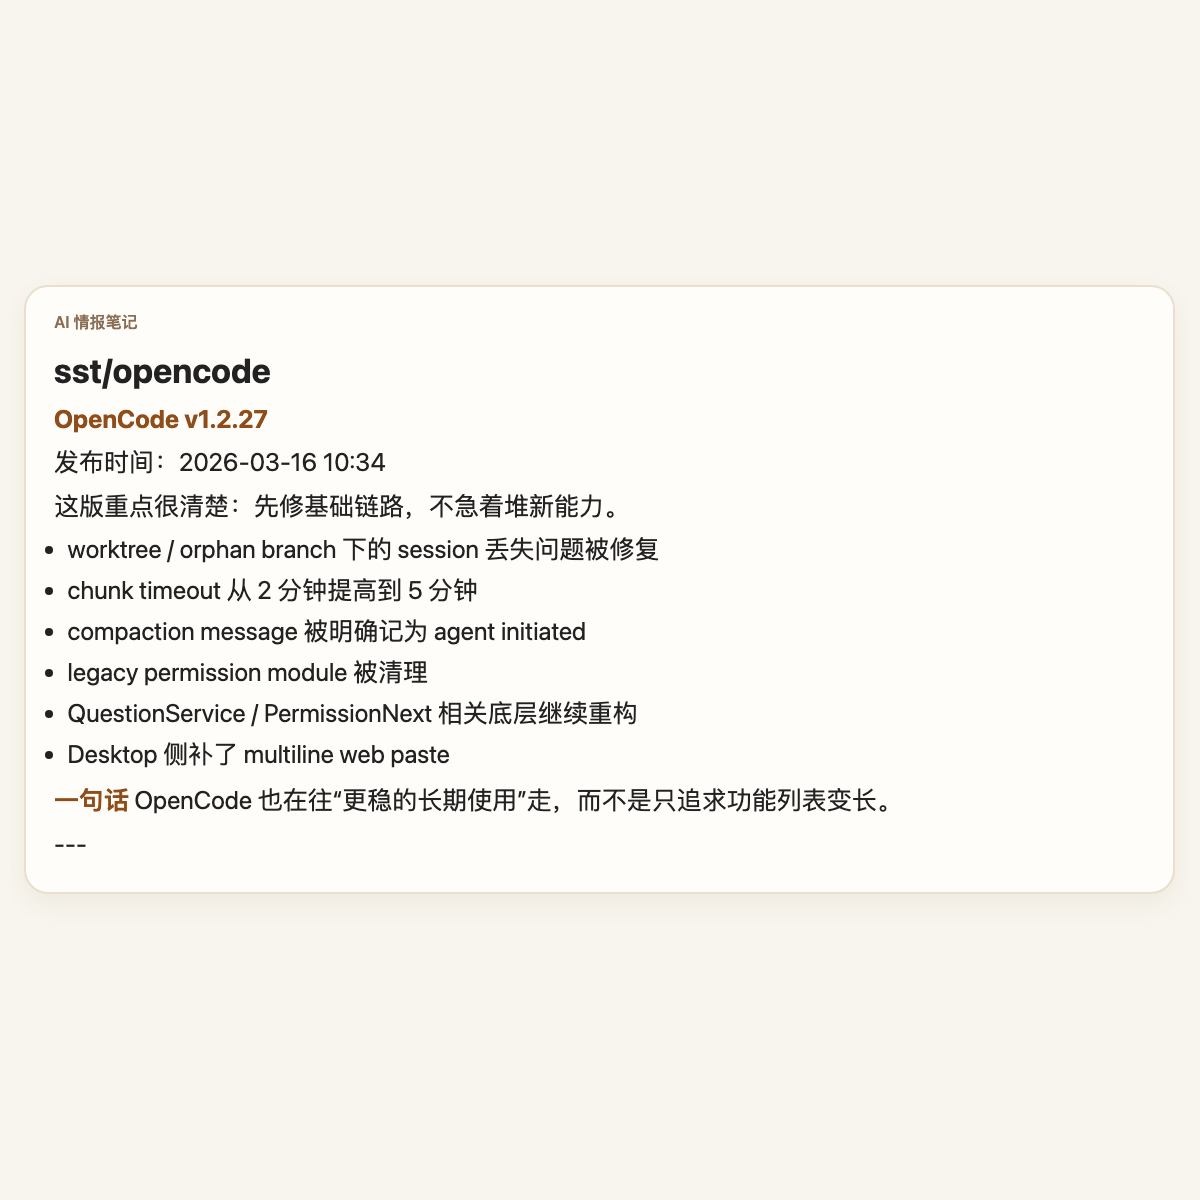
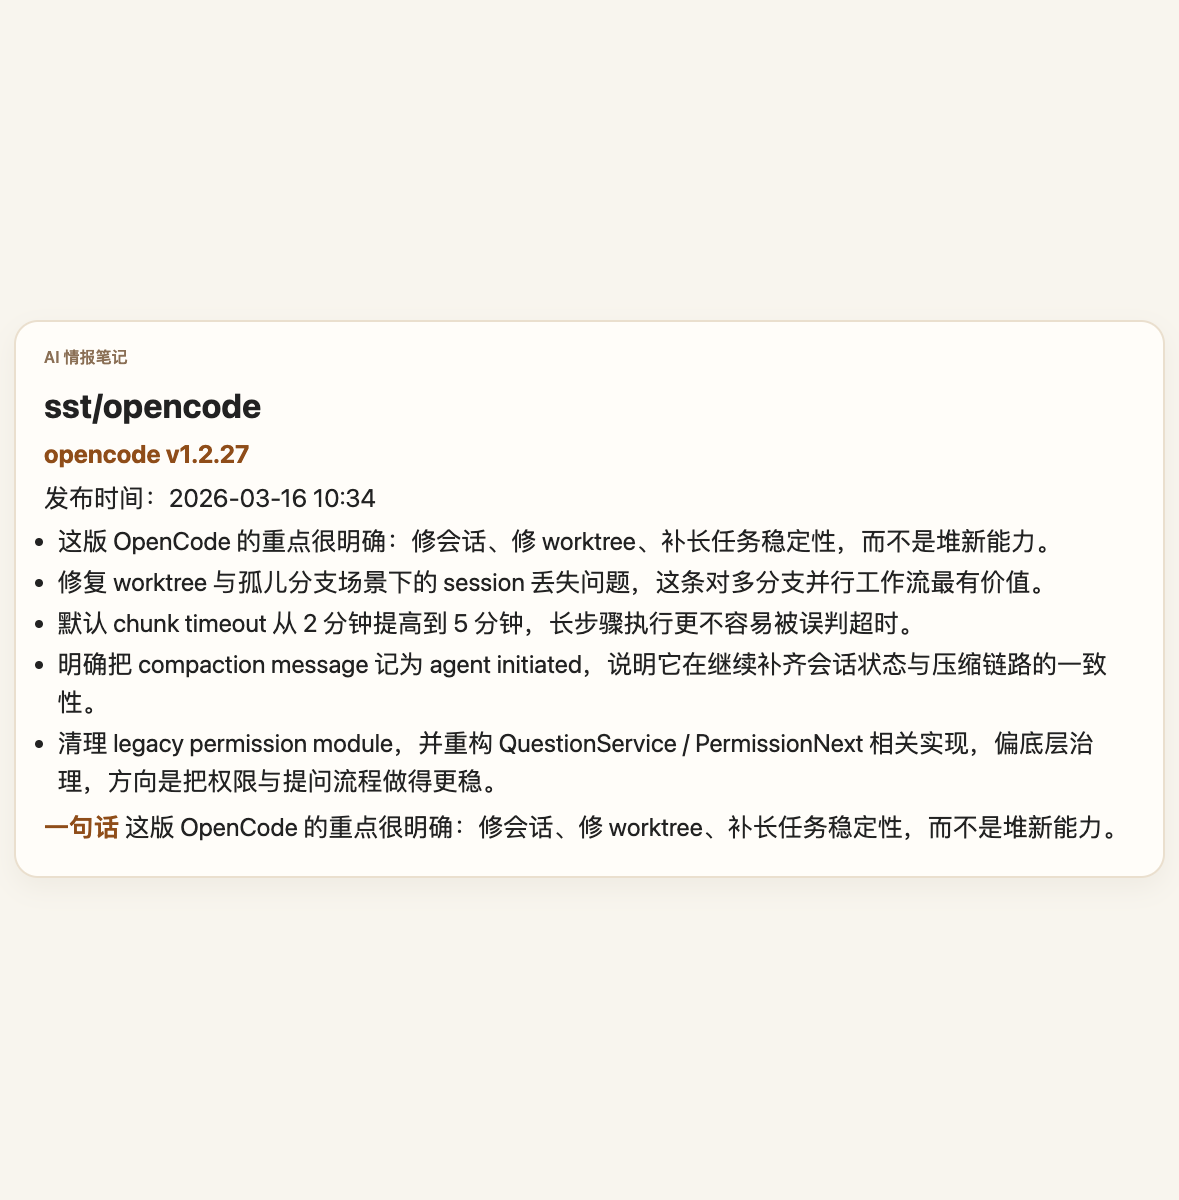
Add full GitHub AI Daily → Xiaohongshu pipeline script
Rewrites pipeline_xhs_github_daily.py with complete automation:
- Parses daily markdown, generates per-repo card markdowns
- Renders square PNGs via render_markdown_image.js --xhs
- Calls publish_xiaohongshu_github_daily.py for publishing
- Supports --cards-only, --render-only, --skip-publish, --dry-run
- No slide numbering in card titles (just owner/repo)
- Regenerated 2026-03-17 square-9 cards with pipeline

Changed region(s): [[0.0, 0.2467, 0.9466, 0.7092], [0.9771, 0.2775, 1.0, 0.7092], [0.7939, 0.6783, 0.9466, 0.7092]]

diff --git a/scripts/pipeline_xhs_github_daily.py b/scripts/pipeline_xhs_github_daily.py
@@ -200,8 +200,6 @@ def generate_card_markdown(repo: dict) -> str:
         lines.append(summary)
         lines.append('')
 
-    lines.append('---')
-    lines.append('')
     return '\n'.join(lines)
 
 

diff --git a/xiaohongshu/github-ai-daily/2026-03-17-square-9/04-codex.md b/xiaohongshu/github-ai-daily/2026-03-17-square-9/04-codex.md
@@ -1,18 +1,13 @@
-## 图 4｜openai/codex
-**Codex rust-v0.115.0**
+## openai/codex
+**codex rust-v0.115.0**
 
 发布时间：2026-03-17 03:37
 
-这版 Codex 值得看的不是单点功能，而是底座能力继续往前推进。
-
-- Smart Approvals 能把 review 请求路由给 guardian subagent
-- app-server v2 新增 filesystem RPC，并补了 Python SDK
-- realtime websocket 会话新增 transcription mode
-- `codex` tool 支持 v2 handoff
-- subagent 的 sandbox / network 规则继承更稳了
-- 还补了 `codex exec --profile`、MCP、TUI 退出卡住等问题
+- 这版 Codex 值得看的不是单点功能，而是把多 agent、审批、sandbox、filesystem RPC 和 app-server / realtime 这些基础能力继续往前推了一截。
+- Smart Approvals 现在可以把 review 请求路由给 guardian subagent，说明 Codex 正在把审批与审稿链路做成一等能力。
+- app-server v2 新增 filesystem RPC，并补了 Python SDK；这条线对外部集成、宿主应用接入和工作流编排都更关键。
+- Realtime websocket 会话新增专用 transcription mode，并通过 `codex` tool 支持 v2 handoff，实时交互链路继续增强。
+- 修复 spawned subagents 继承 sandbox / network 规则不稳定的问题，也修了 `codex exec --profile`、MCP 工具调用、TUI 退出卡住等真实使用痛点。
 
 **一句话**
-Codex 的方向不是“更像聊天”，而是“更像可编排、可嵌入的编码代理底座”。
-
----
+这版 Codex 值得看的不是单点功能，而是把多 agent、审批、sandbox、filesystem RPC 和 app-server / realtime 这些基础能力继续往前推了一截。

diff --git a/xiaohongshu/github-ai-daily/2026-03-17-square-9/01-claude-code.md b/xiaohongshu/github-ai-daily/2026-03-17-square-9/01-claude-code.md
@@ -1,17 +1,13 @@
-## 图 1｜anthropics/claude-code
-**Claude Code v2.1.77**
+## anthropics/claude-code
+**claude-code v2.1.77**
 
 发布时间：2026-03-17 08:28
 
-这版不是加花活，核心是在补重度使用时最痛的几条链路。
-
-- 长输出能力继续上调：Opus 4.6 默认 64k，上限到 128k
-- `allowRead` 沙箱权限更细，能在 `denyRead` 里局部开白名单
-- `/copy N` 能直接复制倒数第 N 条回复
-- `--resume` 截断问题修了，大 session 恢复也更快
-- tmux / IDE / 剪贴板 / hook 权限边界继续补齐
+- 这版不是小修小补，而是把 Claude Code 在长会话、tmux、权限与恢复链路上的几个高频痛点一起收拾了一遍。
+- Claude Opus 4.6 默认最大输出上限提到 64k，Opus 4.6 / Sonnet 4.6 的上限提到 128k，长任务和长代码生成空间更大了。
+- 新增 `allowRead` 沙箱文件系统设置：可以在 `denyRead` 的大区块里对局部目录重新开白名单，权限控制更细。
+- `/copy` 现在支持 `/copy N`，可以直接复制倒数第 N 条 assistant 回复，回收历史输出更方便。
+- 修复 `--resume` 在近期历史加载上的截断问题；大 session 的恢复速度也继续优化，官方给出的量级是最高约 45% 更快、峰值内存下降约 100-150MB。
 
 **一句话**
-Claude Code 已经进入“长期稳定工作代理”的打磨阶段。
-
----
+这版不是小修小补，而是把 Claude Code 在长会话、tmux、权限与恢复链路上的几个高频痛点一起收拾了一遍。

diff --git a/xiaohongshu/github-ai-daily/2026-03-17-square-9/03-opencode.md b/xiaohongshu/github-ai-daily/2026-03-17-square-9/03-opencode.md
@@ -1,18 +1,13 @@
-## 图 3｜sst/opencode
-**OpenCode v1.2.27**
+## sst/opencode
+**opencode v1.2.27**
 
 发布时间：2026-03-16 10:34
 
-这版重点很清楚：先修基础链路，不急着堆新能力。
-
-- worktree / orphan branch 下的 session 丢失问题被修复
-- chunk timeout 从 2 分钟提高到 5 分钟
-- compaction message 被明确记为 agent initiated
-- legacy permission module 被清理
-- QuestionService / PermissionNext 相关底层继续重构
-- Desktop 侧补了 multiline web paste
+- 这版 OpenCode 的重点很明确：修会话、修 worktree、补长任务稳定性，而不是堆新能力。
+- 修复 worktree 与孤儿分支场景下的 session 丢失问题，这条对多分支并行工作流最有价值。
+- 默认 chunk timeout 从 2 分钟提高到 5 分钟，长步骤执行更不容易被误判超时。
+- 明确把 compaction message 记为 agent initiated，说明它在继续补齐会话状态与压缩链路的一致性。
+- 清理 legacy permission module，并重构 QuestionService / PermissionNext 相关实现，偏底层治理，方向是把权限与提问流程做得更稳。
 
 **一句话**
-OpenCode 也在往“更稳的长期使用”走，而不是只追求功能列表变长。
-
----
+这版 OpenCode 的重点很明确：修会话、修 worktree、补长任务稳定性，而不是堆新能力。

diff --git a/xiaohongshu/github-ai-daily/2026-03-17-square-9/02-openclaw.md b/xiaohongshu/github-ai-daily/2026-03-17-square-9/02-openclaw.md
@@ -1,17 +1,13 @@
-## 图 2｜openclaw/openclaw
-**OpenClaw v2026.3.13-1**
+## openclaw/openclaw
+**openclaw v2026.3.13-1**
 
 发布时间：2026-03-15 02:04
 
-这版名义上是恢复型 release，实际上是发布链路 + 系统稳定性补丁。
-
-- 修复上一版损坏的 tag / release 路径
-- npm 版本仍是 `2026.3.13`，`-1` 只体现在 Git tag / GitHub Release
-- compaction 改成按完整会话 token 做 sanity check
-- Telegram 媒体传输被重新接回 SSRF 防护链路
-- 对外功能增量不大，但发布一致性和安全边界更稳了
+- 这次发布主要是在修复上一版损坏的 tag / release 路径，属于发布链路补丁。
+- npm 版本号仍然是 `2026.3.13`，`-1` 只体现在 Git tag 和 GitHub Release 上。
+- 修复 compaction 的后置校验：压缩后会按完整会话 token 数来做 sanity check。
+- 修复 Telegram 媒体传输相关的安全策略问题，和 SSRF 防护链路有关。
+- 这版对外功能增量不大，但对发布一致性和安全边界是必要补丁。
 
 **一句话**
-OpenClaw 真正值得盯的，还是系统底层稳定性和安全收口能力。
-
----
+这次发布主要是在修复上一版损坏的 tag / release 路径，属于发布链路补丁。

diff --git a/xiaohongshu/github-ai-daily/2026-03-17-square-9/08-arbor.md b/xiaohongshu/github-ai-daily/2026-03-17-square-9/08-arbor.md
@@ -1,18 +1,11 @@
-## 图 8｜penso/arbor
+## penso/arbor
 **arbor**
 
 Stars：361
 
-这是个原生桌面应用，重点围绕 git worktree、terminal 和 diff 来组织 agentic coding workflow。
+一个原生桌面应用，用来承载 agentic coding 工作流，重点围绕 git worktree、终端和 diff。
 
-- 盯的是多任务并行工作流
-- 不是单次问答，而是持续执行场景
-- 和 Claude Code / Codex / OpenCode 补的方向高度同向
-
-**为什么值得看**
-agent 一旦进入持续执行阶段，工作台形态本身就会变成竞争点。
+- 它盯的是 worktree + 多任务并行这条线，这和 Claude Code、Codex、OpenCode 现在都在补的“多线程/多分支工作流”高度同向。
 
 **一句话**
-值得继续观察，它代表的是“桌面工作台”这条产品方向。
-
----
+agent 从单轮助手走向持续执行后，工作界面和任务隔离层会越来越重要，arbor 代表的是“桌面工作台”形态。

diff --git a/xiaohongshu/github-ai-daily/2026-03-17-square-9/05-routa.md b/xiaohongshu/github-ai-daily/2026-03-17-square-9/05-routa.md
@@ -1,18 +1,11 @@
-## 图 5｜phodal/routa
+## phodal/routa
 **routa**
 
 Stars：152
 
-这是一个多 Agent 协调平台。
+一个多 Agent 协调平台：把用户意图解析成结构化规格，再通过 MCP / ACP / A2A 协议把任务路由给 Claude Code、OpenCode、Gemini 等工具。
 
-- 把用户意图先转成结构化规格
-- 再通过 MCP / ACP / A2A 协议分发给不同工具
-- 可接 Claude Code、OpenCode、Gemini 等
-
-**为什么值得看**
-它盯的不是单个 agent 强不强，而是多 agent 之间怎么协作、怎么路由。
+- 它命中的不是“单个 agent 很强”，而是多 agent 之间的协议层和路由层，这和 Claude Code / OpenClaw 往编排与协同扩展的方向直接相关。
 
 **一句话**
-现在还早，但协议层如果跑通，价值会很大。
-
----
+大家都在做 agent，但真正能把 ACP / MCP / A2A 这些接口串起来的中间层还不多，它属于值得持续盯的基础设施苗子。

diff --git a/xiaohongshu/github-ai-daily/2026-03-17-square-9/09-gitclaw.md b/xiaohongshu/github-ai-daily/2026-03-17-square-9/09-gitclaw.md
@@ -1,16 +1,11 @@
-## 图 9｜open-gitagent/gitclaw
+## open-gitagent/gitclaw
 **gitclaw**
 
 Stars：146
 
-这是一个 git-native AI agent 框架。
+一个 git 原生的 AI agent 框架：身份、规则、记忆、工具和 skills 都作为版本化文件存放在仓库里。
 
-- identity / rules / memory / tools / skills 全都文件化
-- agent 能力直接进入仓库版本管理
-- 走的是 repo-native memory / rule system 这条路
-
-**为什么值得看**
-如果 agent 的记忆、规则、身份都能 repo 化，后面的可移植性和可审计性会非常强。
+- 它把 agent 的 identity / memory / rules 全部 repo 化，这和 OpenClaw、Claude Code 周边正在形成的“文件即配置、仓库即上下文”思路天然同频。
 
 **一句话**
-它还早，但方向非常对，值得放进长期观察名单。
+repo-native memory / rule system 这条线很可能会变成后续 agent 可移植性和可审计性的关键基础设施。

diff --git a/xiaohongshu/github-ai-daily/2026-03-17-square-9/06-obsidian-agent-client.md b/xiaohongshu/github-ai-daily/2026-03-17-square-9/06-obsidian-agent-client.md
@@ -1,18 +1,11 @@
-## 图 6｜RAIT-09/obsidian-agent-client
+## RAIT-09/obsidian-agent-client
 **obsidian-agent-client**
 
 Stars：1218
 
-它做的是把 Claude Code、Codex、Gemini CLI 等 agent 通过 ACP 接进 Obsidian。
+把 Claude Code、Codex、Gemini CLI 等 AI agent 通过 ACP 接进 Obsidian。
 
-- agent 不再只待在终端
-- 开始进入笔记、知识库、个人信息流场景
-- 这条线对个人工作流改造很有代表性
-
-**为什么值得看**
-如果 ACP 能顺利进入知识管理场景，agent 的使用边界会明显扩大。
+- 它把 ACP 从“终端/工程环境协议”往知识管理场景外扩，这条线对个人工作流整合很有代表性。
 
 **一句话**
-这不是小插件，而是在试探“agent + 知识系统”怎么真正接起来。
-
----
+如果 ACP 不只服务 coding，而能进入笔记、知识库和个人信息流，整个 agent 使用边界会明显扩大。

diff --git a/xiaohongshu/github-ai-daily/2026-03-17-square-9/07-fast-agent.md b/xiaohongshu/github-ai-daily/2026-03-17-square-9/07-fast-agent.md
@@ -1,18 +1,11 @@
-## 图 7｜evalstate/fast-agent
+## evalstate/fast-agent
 **fast-agent**
 
 Stars：3708
 
-这是一个强调 Model / Skills / MCP / ACP 支持的 agent 构建与评测工具集。
+一个强调 Model / Skills / MCP / ACP 支持的 agent 构建与评测工具集。
 
-- 不只是做一个 agent 产品
-- 更像在做 agent 的组装层和评测层
-- 对工作流型系统有很强中间层意味
-
-**为什么值得看**
-这类项目一旦成熟，往往比单点工具更容易长成基础设施。
+- 它不是某个单点产品，而是 agent 能力组装层，和 Claude Code / OpenClaw 这种工作流型系统存在互补关系。
 
 **一句话**
-值得长期跟，不只是看功能，而是看它会不会变成生态中间层。
-
----
+当大家都在拼“会不会调用工具”时，能把构建、评测、协议支持放一起的框架更容易沉淀成中间层基础设施。

diff --git a/xiaohongshu/github-ai-daily/2026-03-17-square-9/README.md b/xiaohongshu/github-ai-daily/2026-03-17-square-9/README.md
@@ -1,3 +1,4 @@
 # 2026-03-17 GitHub square cards
 
-- Updated layout: balanced top/bottom whitespace for square canvases.
+- Generated by pipeline_xhs_github_daily.py
+- 9 cards
